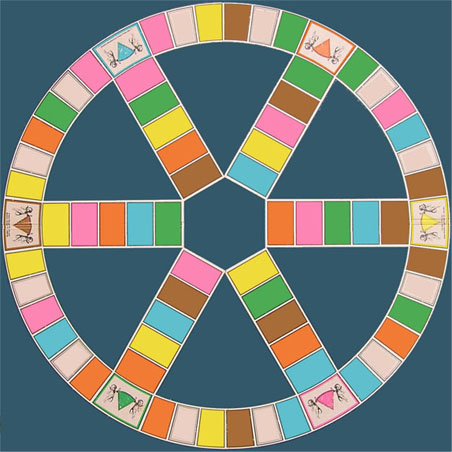
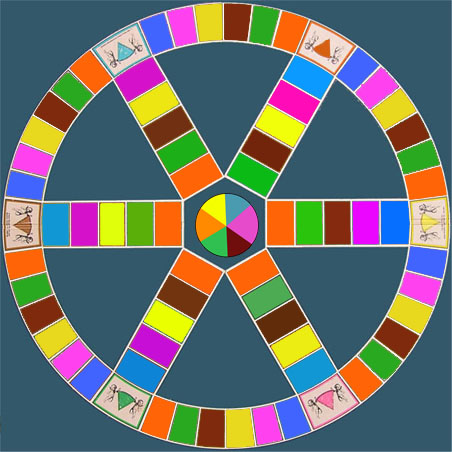
Colors of the board adapted to the logic and button to start the game added, so you can control how many users play the game

diff --git a/Game/src/main/java/gui/GameWindow.java b/Game/src/main/java/gui/GameWindow.java
@@ -119,6 +119,19 @@ public class GameWindow extends JFrame {
 		btnNewUser.setForeground(Color.WHITE);
 		btnNewUser.setBounds(1046, 367, 89, 23);
 		contentPane.add(btnNewUser);
+		
+		JButton btnStart = new JButton("Start");
+		btnStart.addActionListener(new ActionListener() {
+			public void actionPerformed(ActionEvent arg0) {
+				btnOk.setEnabled(false);
+				btnAddPlayer.setEnabled(false);
+			}
+		});
+		btnStart.setFont(new Font("Tahoma", Font.BOLD, 11));
+		btnStart.setBackground(SystemColor.activeCaption);
+		btnStart.setForeground(Color.WHITE);
+		btnStart.setBounds(1037, 203, 143, 23);
+		contentPane.add(btnStart);
 	}
 
 	private JLabel getLbTitle() {
